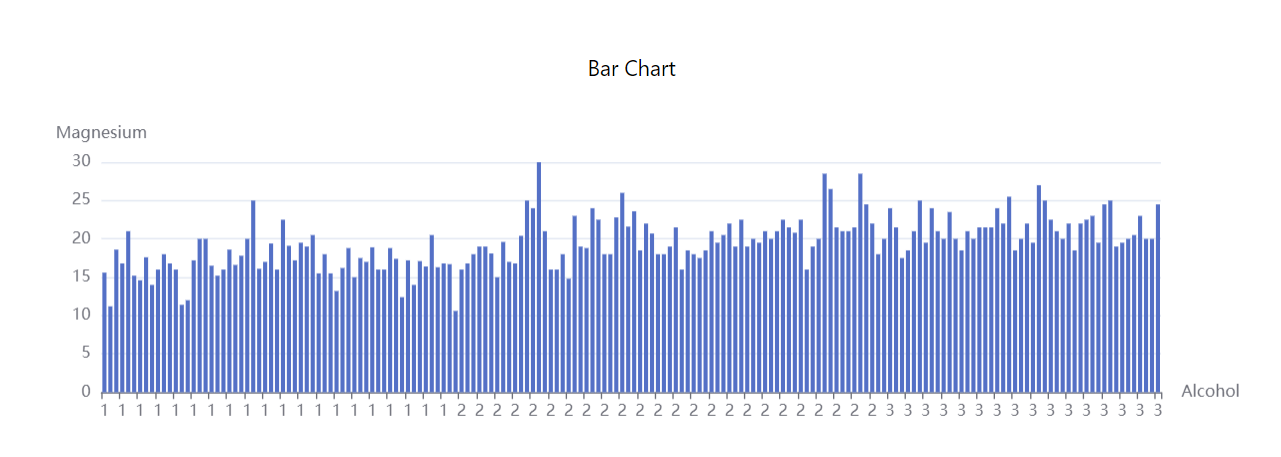
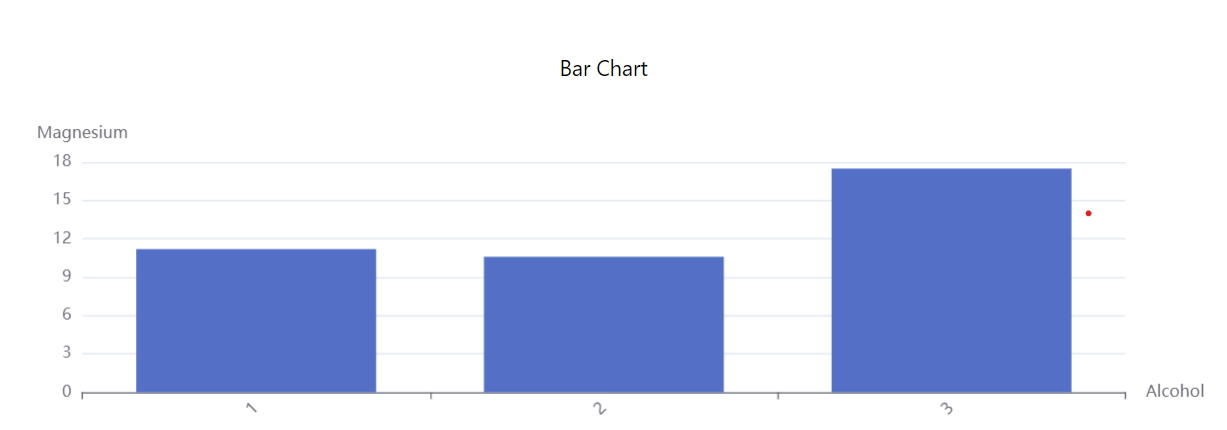
final Bar update

diff --git a/src/App.tsx b/src/App.tsx
@@ -14,14 +14,26 @@ useEffect(()=>{
 },[])
 useEffect(()=>{
 if(chartsData){
+  const alcoholCategories = chartsData.map((item) => item.Alcohol);
+  const magnesiumValues = chartsData.map((item) => item.Magnesium);
+  const minMagnesiumValues: number[] = [];
+  alcoholCategories.forEach((category) => {
+    const categoryValues = chartsData.filter((item) => item.Alcohol === category).map((item) => item.Magnesium);
+    const minMagnesium = Math.min(...categoryValues);
+    minMagnesiumValues.push(minMagnesium);
+  });
+  const flavanoidsValues = chartsData.map((item) => item.Flavanoids);
+  const ashValues = chartsData.map((item) => item.Ash);
   const lineChartOptions:ChartOptions = {
     xAxis: {
       type: 'value',
-      name: 'Flavanoids'
+      name: 'Flavanoids',
+      data: flavanoidsValues
     },
     yAxis: {
       type: 'value',
-      name: 'Ash'
+      name: 'Ash',
+      data: ashValues
     },
     series: [{
       type: 'line',
@@ -33,7 +45,11 @@ if(chartsData){
   const barChartOptions = {
     xAxis: {
       type: 'category',
-      data: chartsData.map((item) => item.Alcohol),
+      data: Array.from(new Set(alcoholCategories)),
+      axisLabel: {
+        rotate: 45,
+        margin: 10
+      },
       name: 'Alcohol'
     },
     yAxis: {
@@ -42,7 +58,8 @@ if(chartsData){
     },
     series: [{
       type: 'bar',
-      data: chartsData.map((item) => item.Magnesium)
+      data:Array.from(new Set(minMagnesiumValues)),
+      name: 'Minimum Magnesium Value'
     }]
   };
   setBarChartOptions(barChartOptions)
